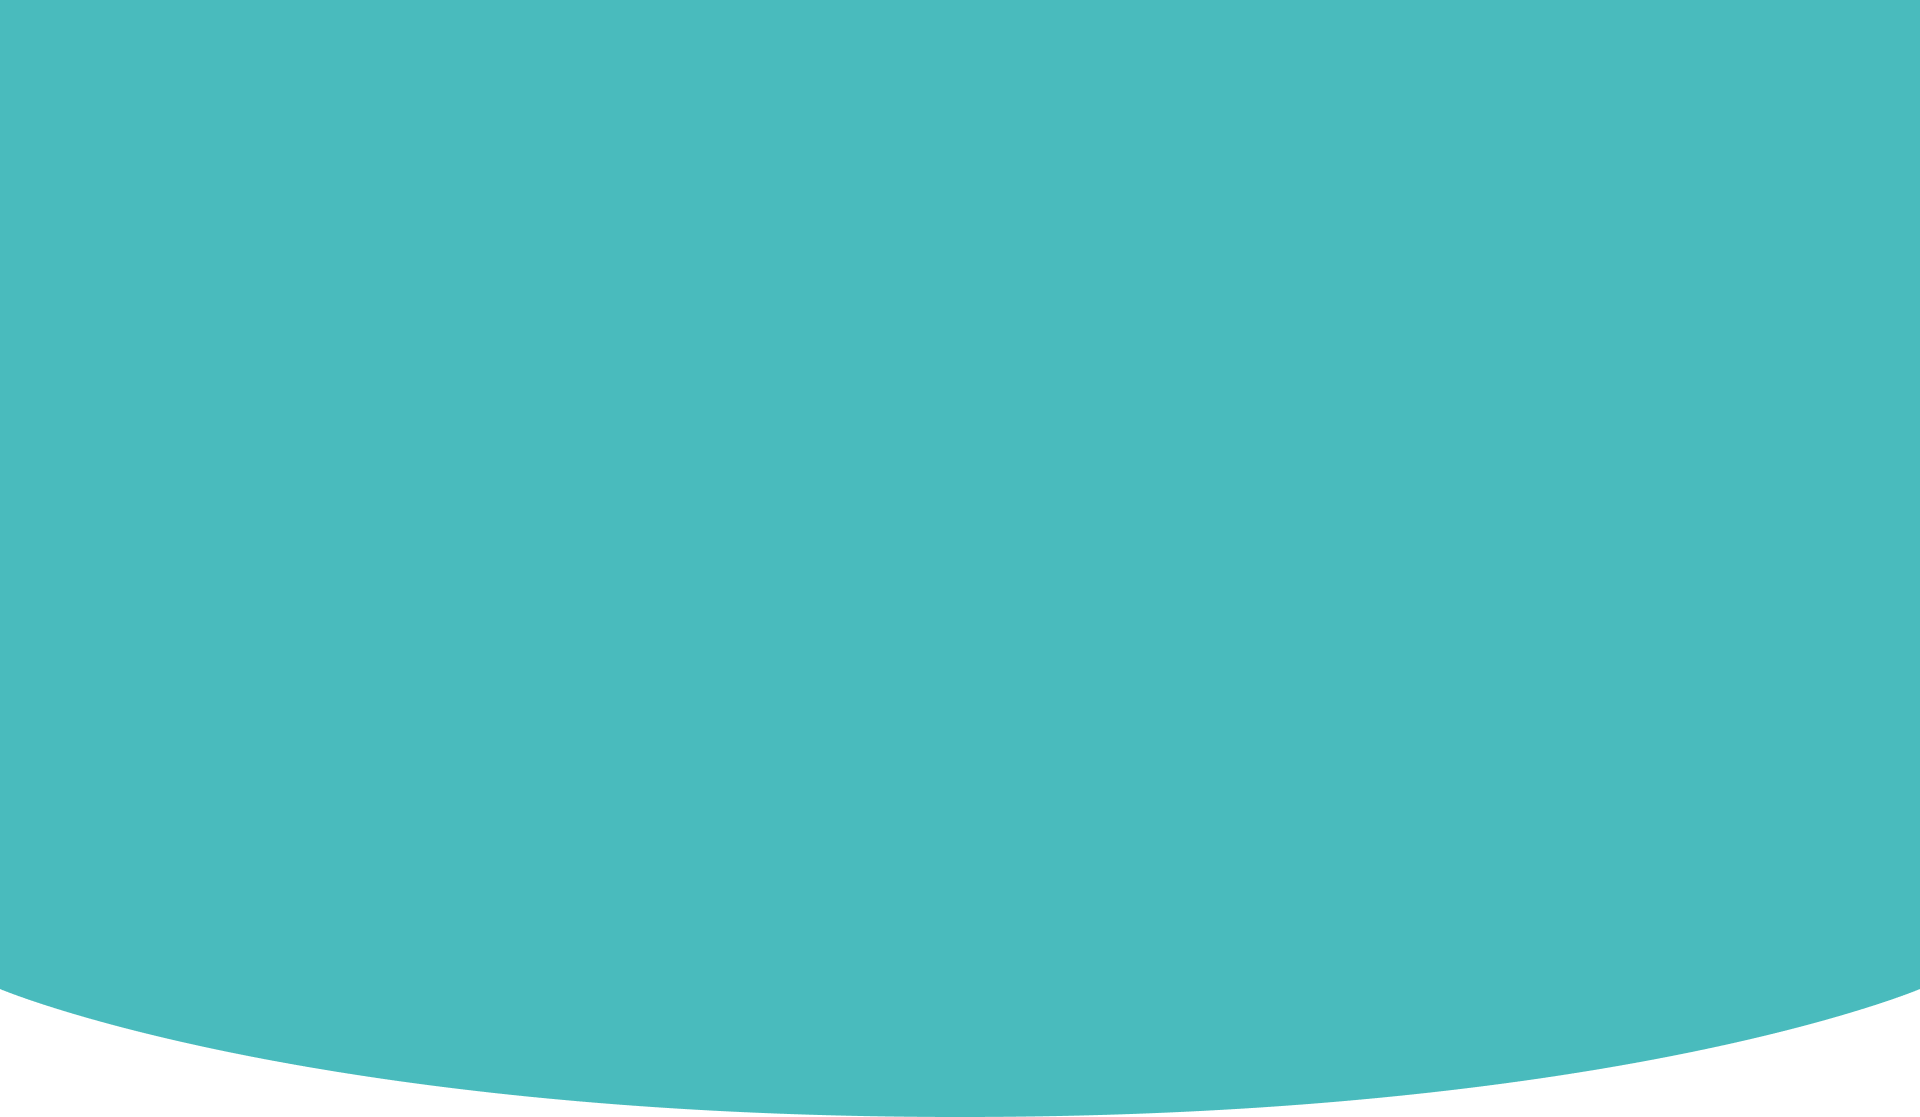
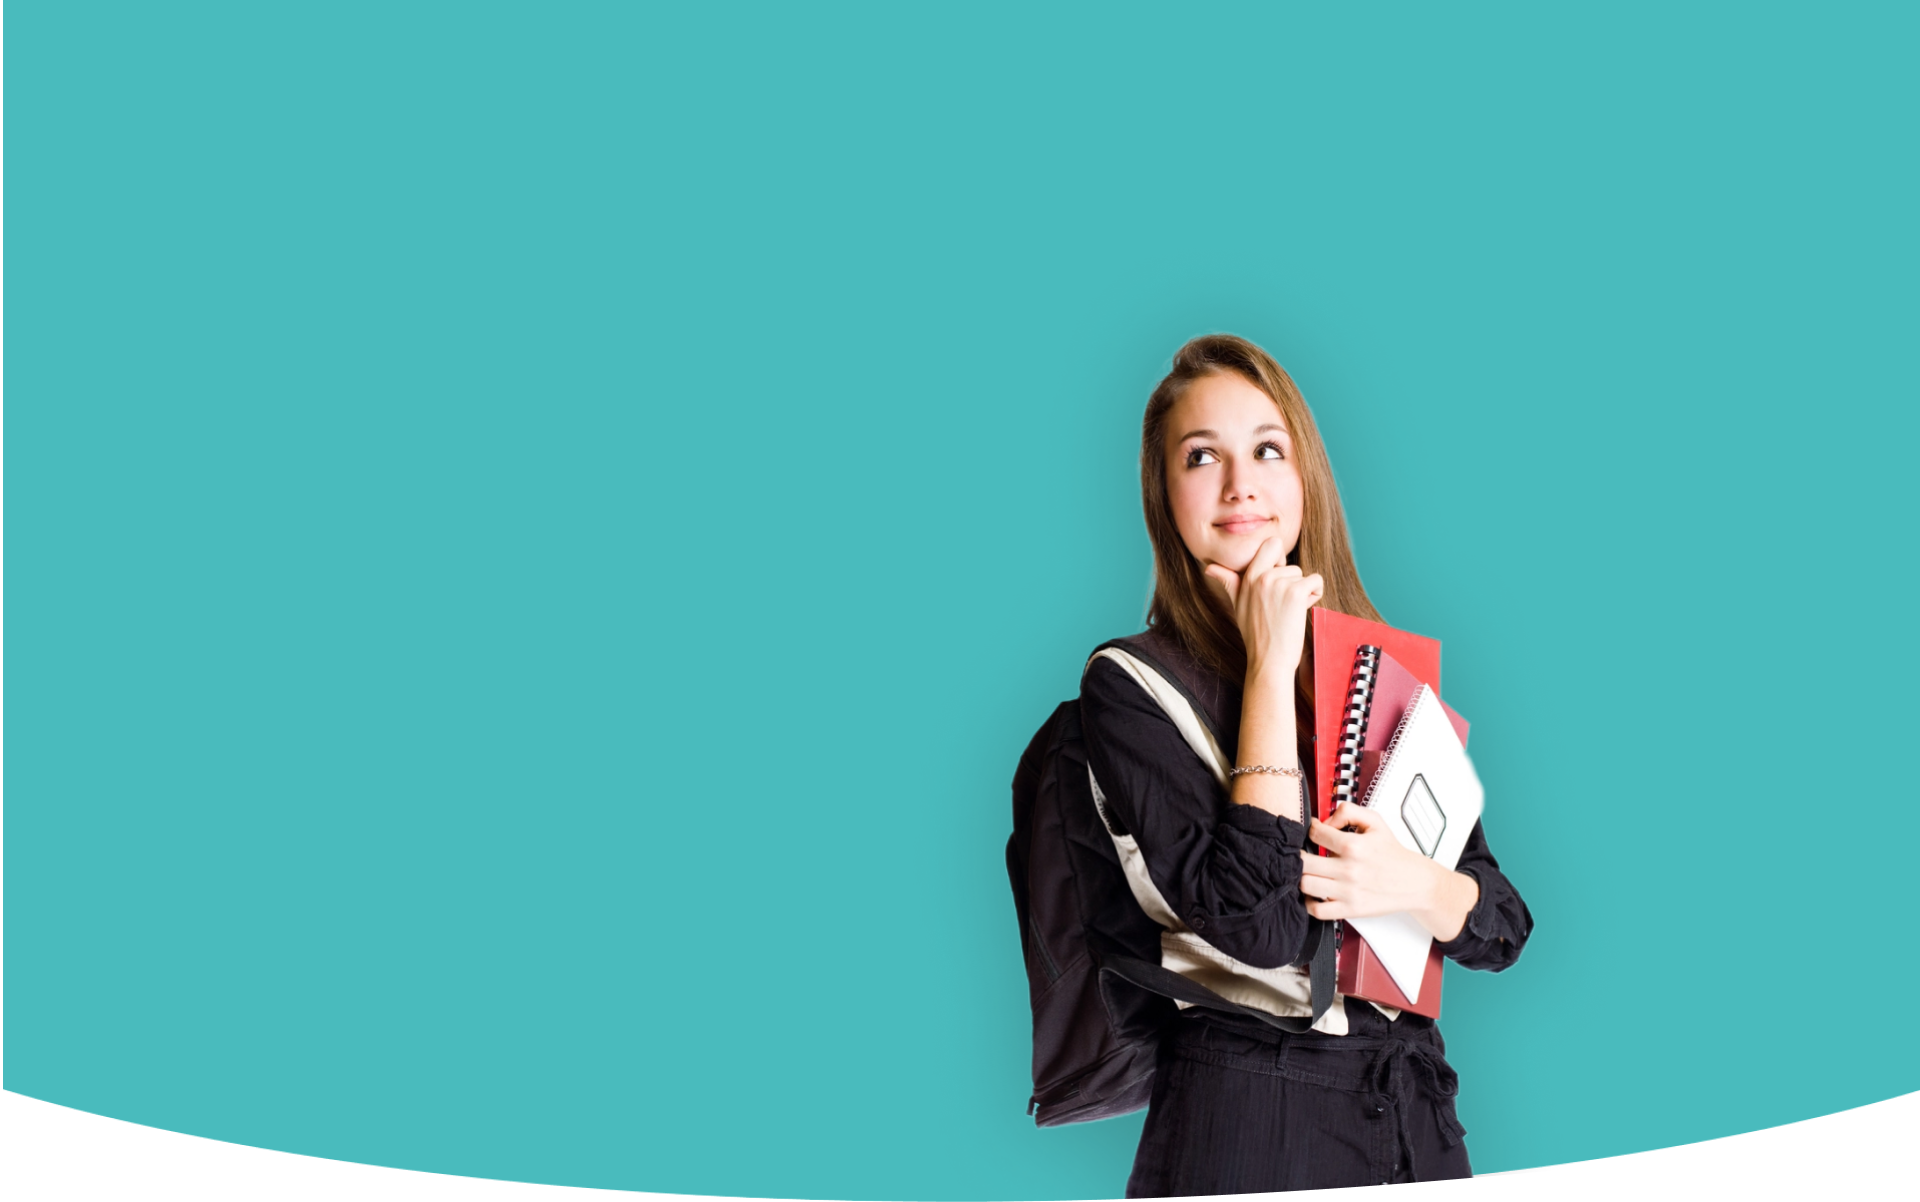
completed hero

diff --git a/src/components/Hero/Hero.scss b/src/components/Hero/Hero.scss
@@ -1,15 +1,22 @@
 .Hero{
-    background-image: url('../../img/her-background.png');
     width: 100%;
     height: 1118px;
-    background-repeat: no-repeat;
     overflow: hidden;
+    // background-color:#49BBBD ;
+    // background-image: url('../../img/her-background.png');
+    // background-repeat: no-repeat;
 }
 .hero-innner{
     display: flex;
     justify-content: space-between;
     align-items: center;
     width: 1676px;
+    height: 1033px;
+    .hero-backgroundimg{
+        margin-left: -398px;    
+        height: 1194px;
+        margin-top: -199px;
+    }
     .hero-right-background{
         margin-top: -390px;
         position: absolute;
@@ -17,8 +24,8 @@
     }
 }
 .hero-left-inner{
-    margin-left: -370px;
-    margin-top: 208px;
+    margin-left: -1945px;
+    margin-top: -120.9px;
     h1{
         color: #FFF;
         font-family: Poppins;
@@ -82,6 +89,8 @@
     align-items: center;
     width: 1200px;
     position: relative;
+    margin-top: -301px;
+    margin-right: 122px;
     .hero-right-items1{
         display: flex;
         flex-direction: column;
@@ -129,6 +138,7 @@
         justify-content: space-around;
         align-items: center;
         height: 700px;
+        margin-left: 112px;
     }
     .hero-right-item2{
         .hero-voice{

diff --git a/src/components/Hero/Hero.jsx b/src/components/Hero/Hero.jsx
@@ -5,13 +5,13 @@ import Class from '../../img/hero-men-class.png'
 import Message from '../../img/hero-pochta.png'
 import Voice from '../../img/hero-voice.png'
 import Watch from '../../img/hero-watch.png'
-import Woman from '../../img/herowoman-background.png'
+import Background from '../../img/her-background.png'
 function Hero() {
   return (
     <div className='Hero'>
         <div className="container">
           <div className="hero-innner">
-           
+           <img className='hero-backgroundimg' src={Background} alt="" />
               <div className='hero-left-inner'>
                    <h1><span>Studying</span> Online is now much easier</h1>
                    <p>TOTC is an interesting platform that will teach you in more an interactive way</p>
@@ -53,7 +53,6 @@ function Hero() {
                     </div>
                   </div>
                 </div>
-              {/* <div>  <img className='hero-right-background' src={Woman} alt="" /></div> */}
               </div>
             
           </div>

diff --git a/src/components/Header/Header.scss b/src/components/Header/Header.scss
@@ -3,7 +3,7 @@
 }
 .nav{
     padding-top: 27px;
-    width: 1400px;
+    margin-left: -321px;
     .nav_inner{
         width: 1548px;
         display: flex;
@@ -42,7 +42,7 @@
                 font-size: 18px;
                 font-weight: 500;
                 letter-spacing: 0.44px;
-                margin-right: -72px;
+                margin-right: -126px;
             }
         }
     }

diff --git a/src/components/Header/Header.jsx b/src/components/Header/Header.jsx
@@ -4,8 +4,9 @@ import Logo from '../../img/header-logo.png'
 function Header() {
   return (
     <div className='Header'>
-      <div className="nav">
-        <div className="container">
+      <div className="container">
+        <div className="nav">
+        
           <div className="nav_inner">
              <img src={Logo} alt="" />
              <ul className='nav_list'>
